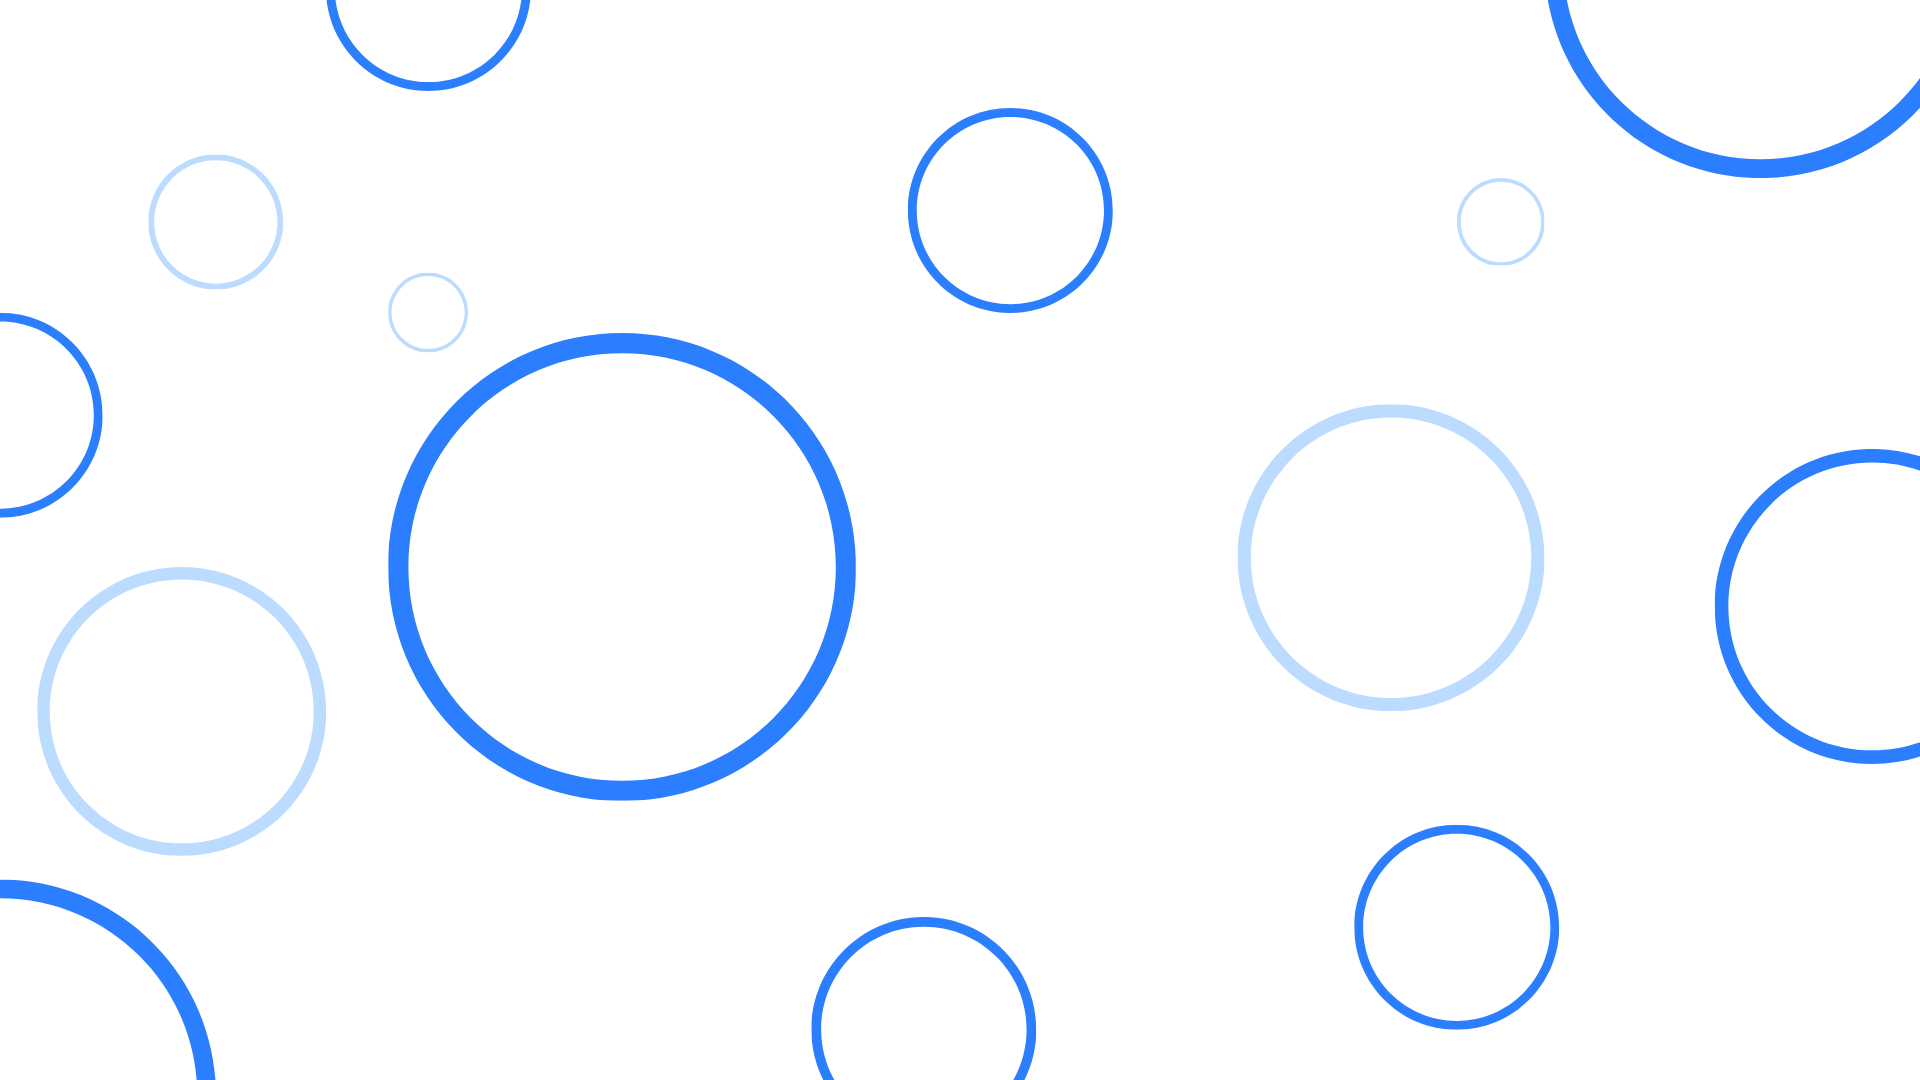
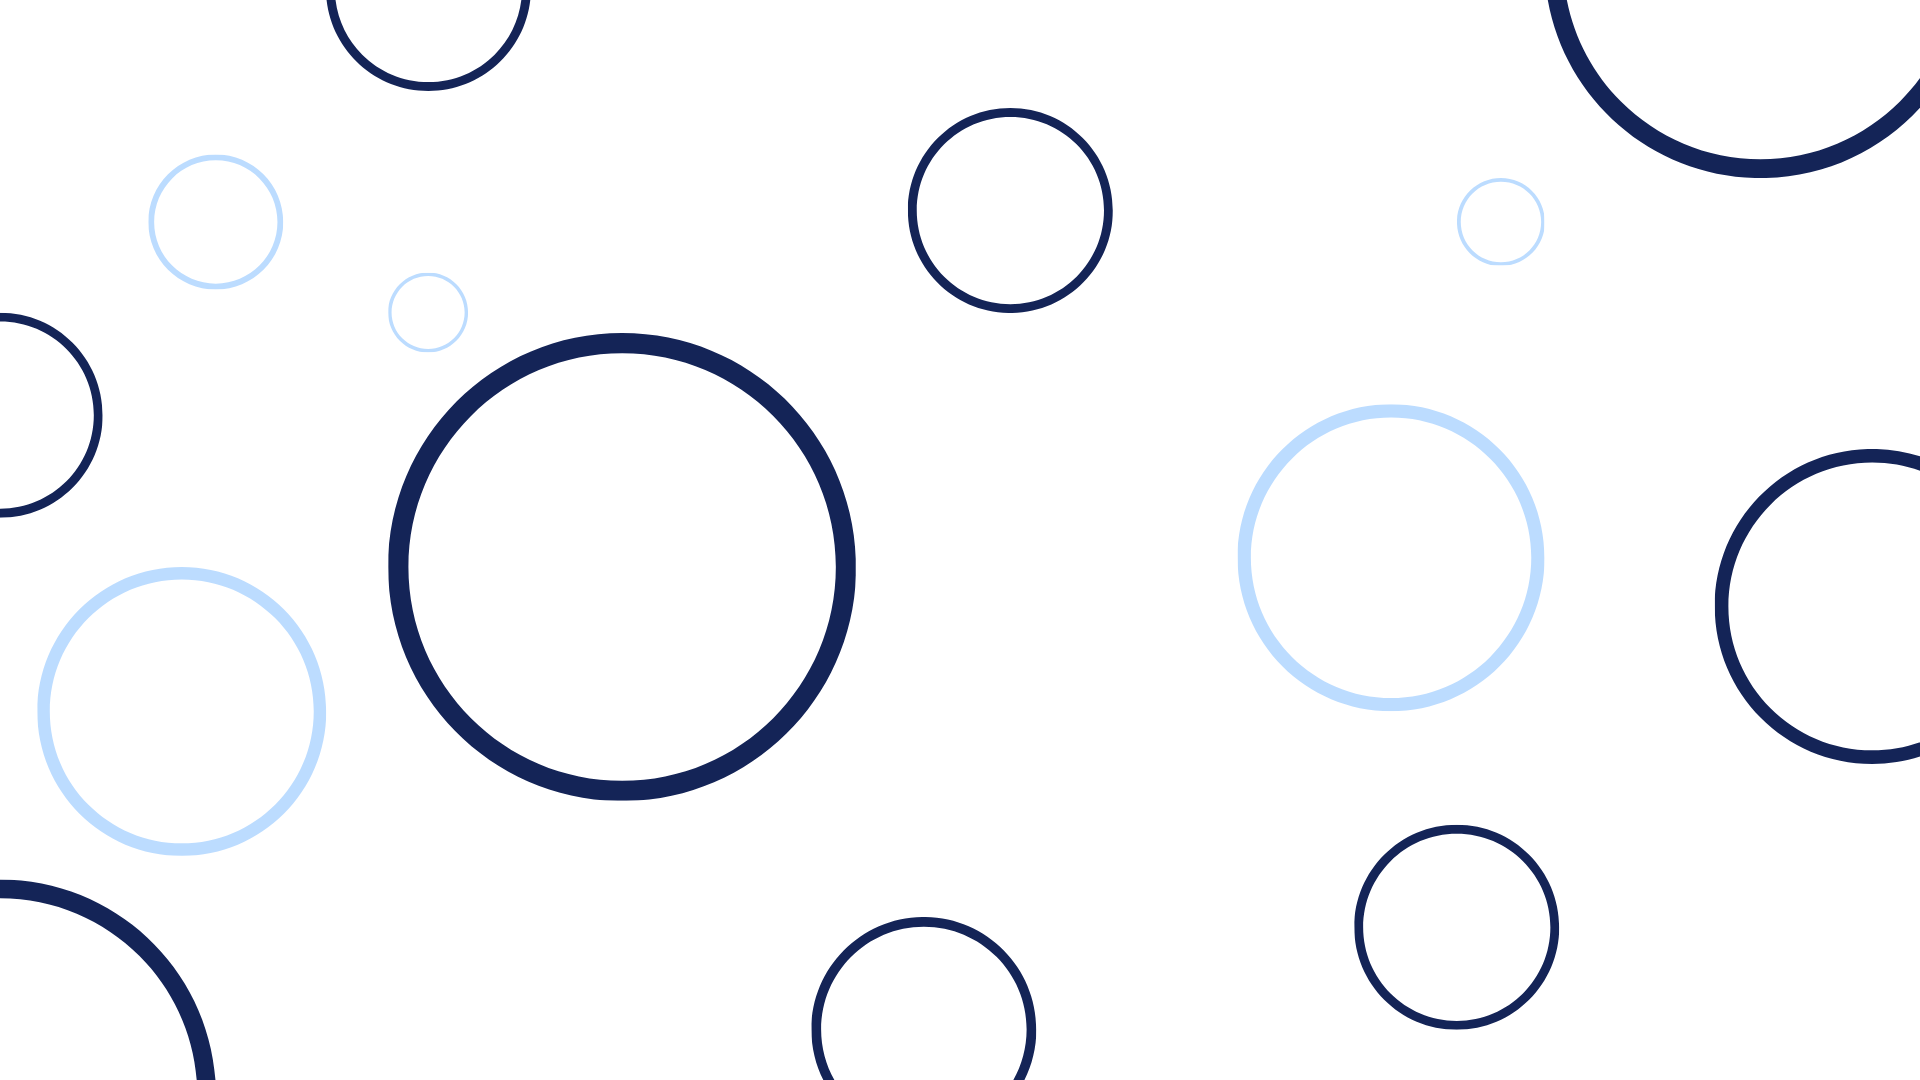
img bg v2 + change style with the right color

diff --git a/app/signup/page.tsx b/app/signup/page.tsx
@@ -100,7 +100,7 @@ export default function RegisterPage() {
   return (
     <div className="relative flex flex-col items-center gap-12 justify-center min-h-screen bg-gray-100 bg-[url(/sign_bg.png)] bg-cover bg-center">
       <Link href="/"
-          className="md:hidden items-center justify-center flex p-4 text-white rounded-lg shadow-lg border bg-blue-500 hover:underline"
+          className="md:hidden items-center justify-center flex p-4 text-white rounded-lg shadow-lg border bg-blue-950  hover:underline"
       >
           <FaHome className="inline mr-2" />
           Retour à l&apos;accueil
@@ -121,7 +121,7 @@ export default function RegisterPage() {
                 value={form.firstname}
                 onChange={handleChange}
                 required
-                className="w-full px-4 py-2 mt-1 text-sm border rounded-md focus:outline-none focus:ring-2 focus:ring-blue-500 focus:border-blue-500"
+                className="w-full px-4 py-2 mt-1 text-sm border rounded-md focus:outline-none focus:ring-2 focus:ring-blue-950  focus:border-blue-500"
               />
             </div>
             <div className="w-full sm:w-1/2">
@@ -134,7 +134,7 @@ export default function RegisterPage() {
                 placeholder="Nom"
                 value={form.lastname}
                 onChange={handleChange}
-                className="w-full px-4 py-2 mt-1 text-sm border rounded-md focus:outline-none focus:ring-2 focus:ring-blue-500 focus:border-blue-500"
+                className="w-full px-4 py-2 mt-1 text-sm border rounded-md focus:outline-none focus:ring-2 focus:ring-blue-950  focus:border-blue-500"
                 required
               />
             </div>
@@ -151,7 +151,7 @@ export default function RegisterPage() {
               placeholder="Email"
               value={form.mail}
               onChange={handleChange}
-              className="w-full px-4 py-2 mt-1 text-sm border rounded-md focus:outline-none focus:ring-2 focus:ring-blue-500 focus:border-blue-500"
+              className="w-full px-4 py-2 mt-1 text-sm border rounded-md focus:outline-none focus:ring-2 focus:ring-blue-950  focus:border-blue-500"
               required
             />
           </div>
@@ -166,7 +166,7 @@ export default function RegisterPage() {
               placeholder="Téléphone"
               value={form.phone}
               onChange={handleChange}
-              className="w-full px-4 py-2 mt-1 text-sm border rounded-md focus:outline-none focus:ring-2 focus:ring-blue-500 focus:border-blue-500"
+              className="w-full px-4 py-2 mt-1 text-sm border rounded-md focus:outline-none focus:ring-2 focus:ring-blue-950  focus:border-blue-500"
               required
             />
           </div>
@@ -181,7 +181,7 @@ export default function RegisterPage() {
               placeholder="Adresse"
               value={form.address}
               onChange={handleChange}
-              className="w-full px-4 py-2 mt-1 text-sm border rounded-md focus:outline-none focus:ring-2 focus:ring-blue-500 focus:border-blue-500"
+              className="w-full px-4 py-2 mt-1 text-sm border rounded-md focus:outline-none focus:ring-2 focus:ring-blue-950  focus:border-blue-500"
               required
             />
           </div>
@@ -197,7 +197,7 @@ export default function RegisterPage() {
                 placeholder="Mot de passe"
                 value={form.password}
                 onChange={handleChange}
-                className="w-full px-4 py-2 mt-1 text-sm border rounded-md focus:outline-none focus:ring-2 focus:ring-blue-500 focus:border-blue-500"
+                className="w-full px-4 py-2 mt-1 text-sm border rounded-md focus:outline-none focus:ring-2 focus:ring-blue-950  focus:border-blue-500"
                 required
               />
               <div
@@ -219,21 +219,22 @@ export default function RegisterPage() {
               placeholder="Confirmer le mot de passe"
               value={form.passwordConfirm}
               onChange={handleChange}
-              className="w-full px-4 py-2 mt-1 text-sm border rounded-md focus:outline-none focus:ring-2 focus:ring-blue-500 focus:border-blue-500"
+              className="w-full px-4 py-2 mt-1 text-sm border rounded-md focus:outline-none focus:ring-2 focus:ring-blue-950  focus:border-blue-500"
               required
             />
           </div>
           <button
             type="submit"
-            className="w-full bg-blue-600 text-white py-2 rounded-md hover:bg-blue-700"
+            className="w-full bg-blue-950 text-white py-2 rounded-md hover:bg-blue-900 cursor-pointer"
             disabled={loading}
+
           >
             {loading ? 'Chargement...' : "S'inscrire"}
           </button>
         </form>
         <p className="mt-4 text-sm text-center text-gray-600 sm:text-base">
           Déjà inscrit ?{' '}
-          <a href="/signin" className="text-blue-500 hover:underline">
+          <a href="/signin" className="text-blue-950  hover:underline">
             Se connecter
           </a>
         </p>
@@ -245,7 +246,7 @@ export default function RegisterPage() {
         </div>
       )}
       <Link href="/"
-      className="md:flex items-center justify-center hidden absolute top-4 left-4 p-4 text-white rounded-lg shadow-lg border bg-blue-500 hover:underline"
+      className="md:flex items-center justify-center hidden absolute top-4 left-4 p-4 text-white rounded-lg shadow-lg border bg-blue-950  hover:underline"
       >
         <FaHome className="inline mr-2" />
         Retour à l&apos;accueil

diff --git a/app/signin/page.tsx b/app/signin/page.tsx
@@ -71,7 +71,7 @@ const SignIn = () => {
     return (
         <div className="relative flex flex-col items-center gap-12 justify-center min-h-screen bg-gray-100 bg-[url(/sign_bg.png)] bg-cover bg-center">
             <Link href="/"
-                className="md:hidden items-center justify-center flex p-4 text-white rounded-lg shadow-lg border bg-blue-500 hover:underline"
+                className="md:hidden items-center justify-center flex p-4 text-white rounded-lg shadow-lg border bg-blue-950 hover:underline"
             >
                 <FaHome className="inline mr-2" />
                 Retour à l&apos;accueil
@@ -90,7 +90,7 @@ const SignIn = () => {
                             value={form.mail}
                             onChange={handleChange}
                             required
-                            className="w-full px-4 py-2 mt-1 text-sm border rounded-md focus:outline-none focus:ring-2 focus:ring-blue-500 focus:border-blue-500 sm:text-base"
+                            className="w-full px-4 py-2 mt-1 text-sm border rounded-md focus:outline-none focus:ring-2 focus:ring-blue-950 focus:border-blue-950 sm:text-base"
                         />
                     </div>
                     <div>
@@ -105,7 +105,7 @@ const SignIn = () => {
                 placeholder="Mot de passe"
                 value={form.password}
                 onChange={handleChange}
-                className="w-full px-4 py-2 mt-1 text-sm border rounded-md focus:outline-none focus:ring-2 focus:ring-blue-500 focus:border-blue-500"
+                className="w-full px-4 py-2 mt-1 text-sm border rounded-md focus:outline-none focus:ring-2 focus:ring-blue-950 focus:border-blue-500"
                 required
               />
               <div
@@ -119,7 +119,7 @@ const SignIn = () => {
                     <div>
                         <button
                             type="submit"
-                            className="w-full px-4 py-2 text-white bg-blue-500 rounded-md hover:bg-blue-600 focus:outline-none focus:ring-2 focus:ring-blue-500 focus:ring-offset-2 sm:text-base"
+                            className="w-full px-4 py-2 text-white bg-blue-950 rounded-md hover:bg-blue-900 cursor-pointer focus:outline-none focus:ring-2 focus:ring-blue-950 focus:ring-offset-2 sm:text-base"
                         >
                             Se connecter
                         </button>
@@ -127,7 +127,7 @@ const SignIn = () => {
                 </form>
                 <p className="mt-4 text-sm text-center text-gray-600 sm:text-base">
                     Pas encore inscrit ?{' '}
-                    <a href="/signup" className="text-blue-500 hover:underline">
+                    <a href="/signup" className="text-blue-950 hover:underline">
                         Créer un compte
                     </a>
                 </p>
@@ -138,7 +138,7 @@ const SignIn = () => {
                 </div>
             )}
             <Link href="/"
-                className="md:flex items-center justify-center hidden absolute top-4 left-4 p-4 text-white rounded-lg shadow-lg border bg-blue-500 hover:underline"
+                className="md:flex items-center justify-center hidden absolute top-4 left-4 p-4 text-white rounded-lg shadow-lg border bg-blue-950 hover:underline"
             >
                 <FaHome className="inline mr-2" />
                 Retour à l&apos;accueil
